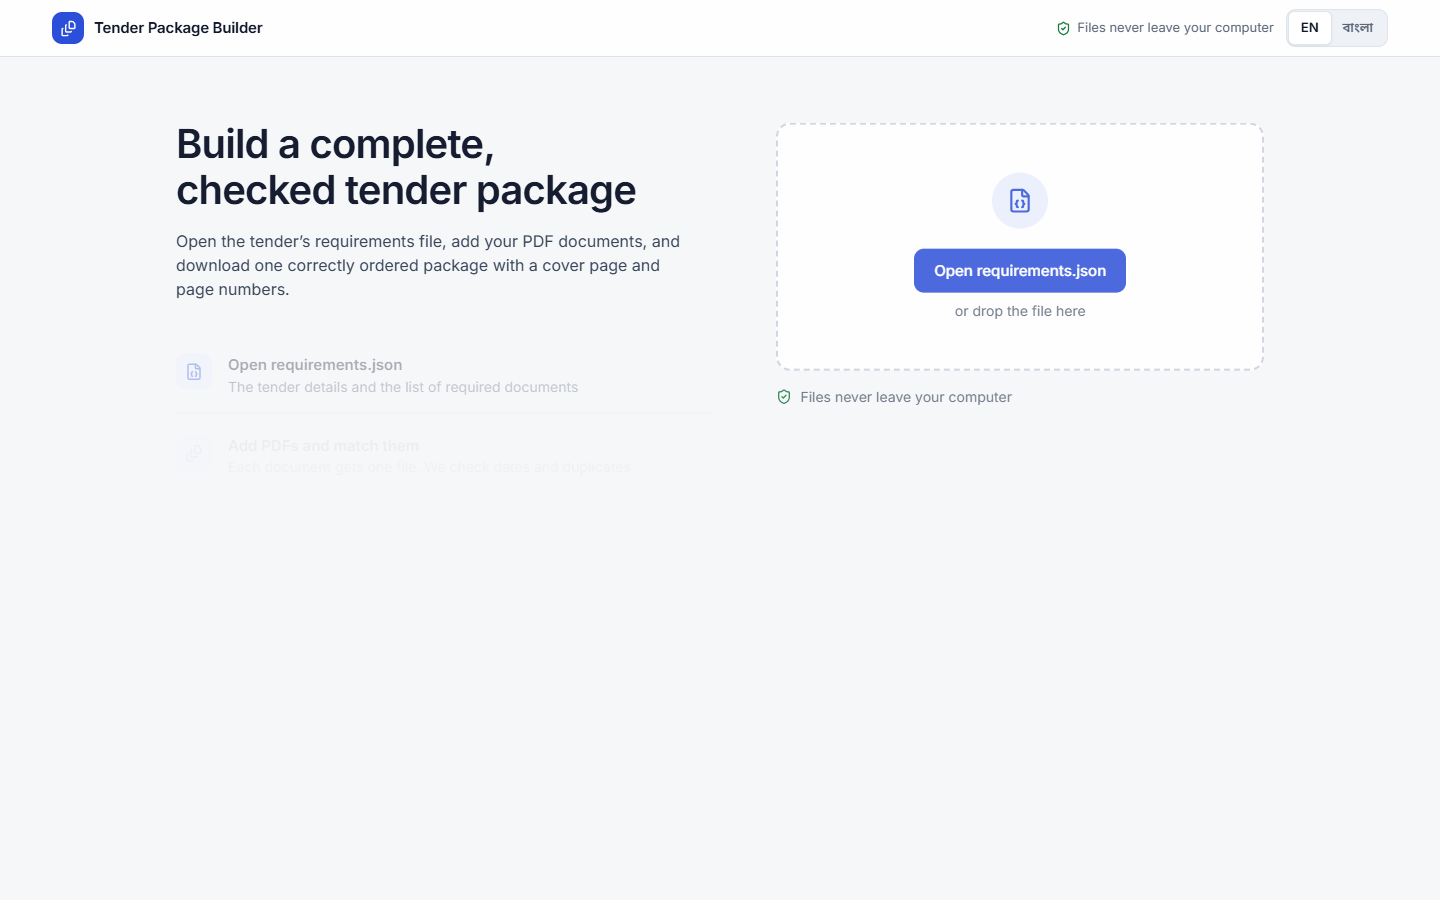
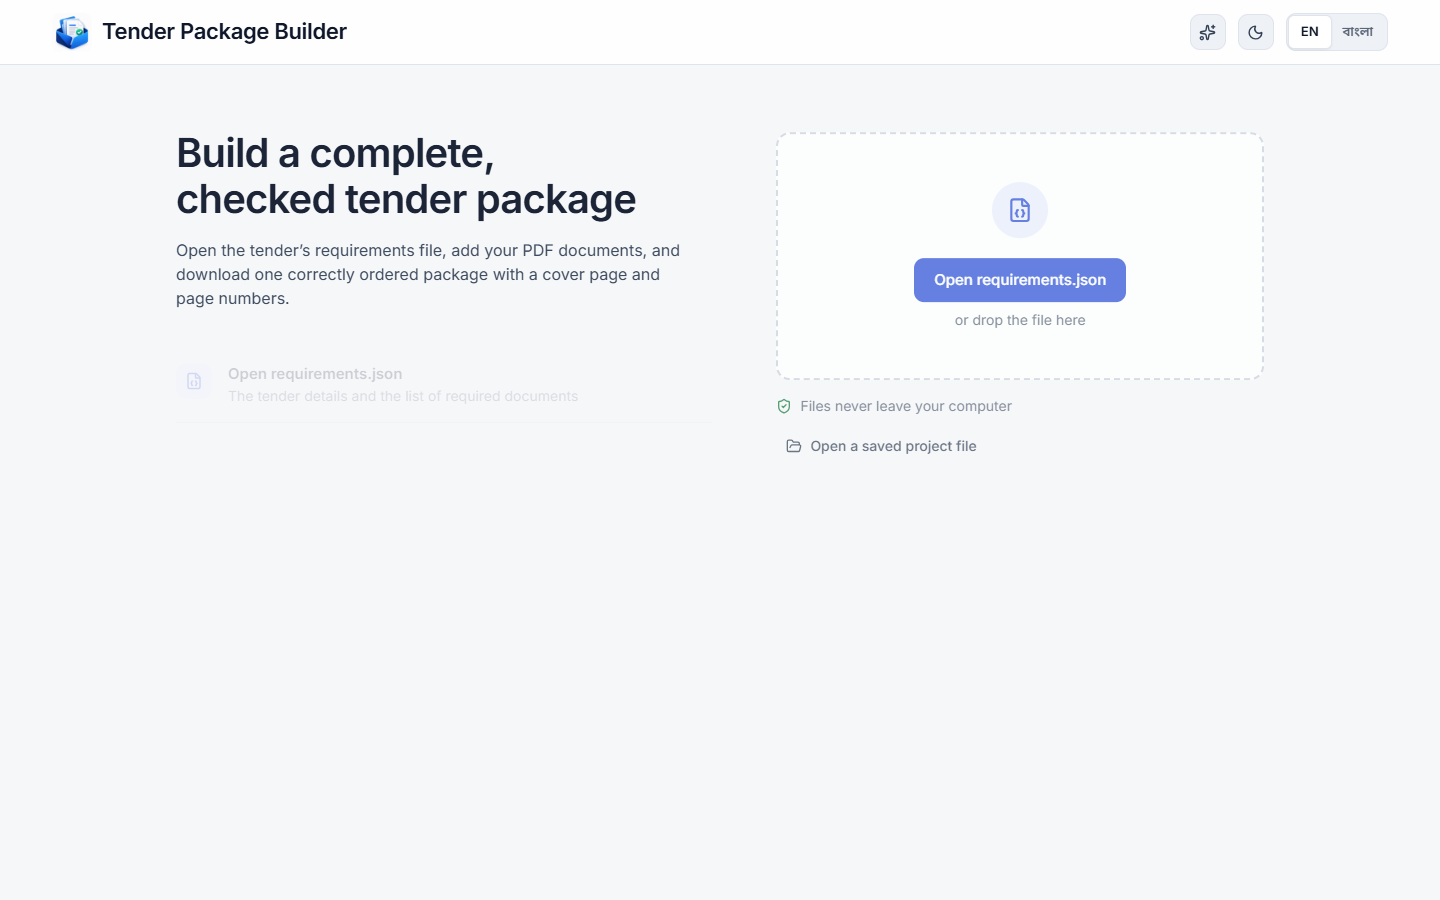
Refresh screenshots, add live link and most useful prompt to README Prompt: "Final audit please, make it quick, no time"

diff --git a/README.md b/README.md
@@ -3,7 +3,7 @@
 A browser-only web app that helps office staff turn a set of tender PDFs into one complete, checked and correctly ordered PDF package, ready to submit. Built for the AI DevFest 2026 vibe-coding contest.
 
 **Name:** Mostafizur Rahman Sani
-**Live site (HTTPS):** _coming soon_
+**Live site (HTTPS):** https://mostafizurrahmansani.github.io/Tender-Document-Package-Builder/
 
 ## What it does
 - Loads the tender's `requirements.json` and lists the required documents in order
@@ -73,7 +73,7 @@ Vite, React, TypeScript, Tailwind CSS, Motion, pdf-lib, Lucide icons, Inter + No
 - Claude Code
 
 ## Most useful prompt
-> _to be added_
+> "start phase 1, please use modern sleek good design for the frontend, with all the logics perfeclty done" (with the full problem statement and a written spec as context)
 
 ## License
 MIT. See LICENSE.
